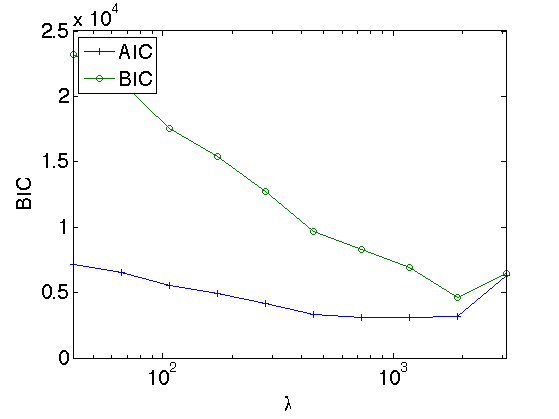
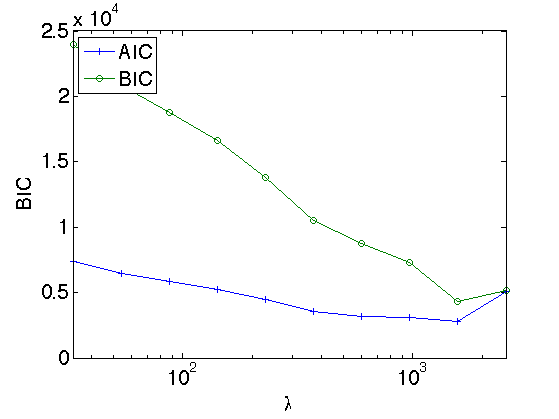
minor edits and re-publish demo_matrixreg

diff --git a/codebase/tensorreg_toolbox/html/demo_matrixreg.html b/codebase/tensorreg_toolbox/html/demo_matrixreg.html
@@ -6,7 +6,7 @@
    <!--
 This HTML was auto-generated from MATLAB code.
 To make changes, update the MATLAB code and republish this document.
-      --><title>demo_matrixreg</title><meta name="generator" content="MATLAB 7.12"><link rel="schema.DC" href="http://purl.org/dc/elements/1.1/"><meta name="DC.date" content="2013-07-22"><meta name="DC.source" content="demo_matrixreg.m"><style type="text/css">
+      --><title>demo_matrixreg</title><meta name="generator" content="MATLAB 7.12"><link rel="schema.DC" href="http://purl.org/dc/elements/1.1/"><meta name="DC.date" content="2013-07-23"><meta name="DC.source" content="demo_matrixreg.m"><style type="text/css">
 
 body {
   background-color: white;
@@ -69,7 +69,7 @@ RandStream.setGlobalStream(s);
 </pre><p>True coefficients for regular (non-array) covariates</p><pre class="codeinput">p0 = 5;
 b0 = ones(p0,1);
 </pre><p>2D true signal: 64-by-64 cross</p><pre class="codeinput">shape = imread(<span class="string">'cross.gif'</span>);
-shape = imresize(shape,[32,32]); <span class="comment">% 32-by-32</span>
+shape = array_resize(shape,[32,32]); <span class="comment">% 32-by-32</span>
 b = zeros(2*size(shape));
 b((size(b,1)/4):(size(b,1)/4)+size(shape,1)-1, <span class="keyword">...</span>
     (size(b,2)/4):(size(b,2)/4)+size(shape,2)-1) = shape;
@@ -114,7 +114,7 @@ tic;
     BIC(i) = stats.BIC;
 <span class="keyword">end</span>
 toc;
-</pre><pre class="codeoutput">Elapsed time is 1.434837 seconds.
+</pre><pre class="codeoutput">Elapsed time is 1.647468 seconds.
 </pre><p>Display true signal and snapshots along nuclear norm solution path</p><pre class="codeinput">figure; hold <span class="string">on</span>;
 set(gca,<span class="string">'FontSize'</span>,20);
 
@@ -169,7 +169,7 @@ tic;
     BIC_lasso(i) = .5*norm(y-Xall*beta)^2+log(n)*nnz(abs(beta)&gt;1e-8);
 <span class="keyword">end</span>
 toc;
-</pre><pre class="codeoutput">Elapsed time is 0.519900 seconds.
+</pre><pre class="codeoutput">Elapsed time is 0.451854 seconds.
 </pre><p>Display true signal and snapshots along lasso solution path</p><pre class="codeinput">figure; hold <span class="string">on</span>;
 set(gca,<span class="string">'FontSize'</span>,20);
 
@@ -203,7 +203,7 @@ xlim([min(lambdas_lasso),max(lambdas_lasso)]);
 s = RandStream(<span class="string">'mt19937ar'</span>,<span class="string">'Seed'</span>,2);
 RandStream.setGlobalStream(s);
 </pre><p>2D true signal: 64-by-64 cross</p><pre class="codeinput">shape = imread(<span class="string">'cross.gif'</span>);
-shape = imresize(shape,[32,32]); <span class="comment">% 32-by-32</span>
+shape = array_resize(shape,[32,32]); <span class="comment">% 32-by-32</span>
 b = zeros(2*size(shape));
 b((size(b,1)/4):(size(b,1)/4)+size(shape,1)-1, <span class="keyword">...</span>
     (size(b,2)/4):(size(b,2)/4)+size(shape,2)-1) = shape;
@@ -214,7 +214,7 @@ ans =
 
     64    64
 
-</pre><p>True coefficients for regulari (non-array) covariates</p><pre class="codeinput">p0 = 5;
+</pre><p>True coefficients for regular (non-array) covariates</p><pre class="codeinput">p0 = 5;
 b0 = ones(p0,1);
 </pre><p>Simulate covariates</p><pre class="codeinput">n = 750;    <span class="comment">% sample size</span>
 X = randn(n,p0);   <span class="comment">% n-by-p regular design matrix</span>
@@ -252,7 +252,7 @@ tic;
     BIC(i) = stats.BIC;
 <span class="keyword">end</span>
 toc
-</pre><pre class="codeoutput">Elapsed time is 3.827486 seconds.
+</pre><pre class="codeoutput">Elapsed time is 4.235523 seconds.
 </pre><p>Display true signal and snapshots along nuclear norm solution path</p><pre class="codeinput">figure; hold <span class="string">on</span>;
 set(gca,<span class="string">'FontSize'</span>,20);
 
@@ -312,7 +312,7 @@ tic;
         + log(n)*nnz(abs(beta)&gt;1e-8);
 <span class="keyword">end</span>
 toc;
-</pre><pre class="codeoutput">Elapsed time is 55.624880 seconds.
+</pre><pre class="codeoutput">Elapsed time is 67.808552 seconds.
 </pre><p>Display true sinal and snapshots along lasso solution path</p><pre class="codeinput">figure; hold <span class="string">on</span>;
 set(gca,<span class="string">'FontSize'</span>,20);
 
@@ -341,15 +341,13 @@ title(<span class="string">'lasso BIC'</span>);
 xlabel(<span class="string">'\lambda'</span>);
 ylabel(<span class="string">'BIC'</span>);
 xlim([min(lambdas_lasso),max(lambdas_lasso)]);
-</pre><pre class="codeoutput">Warning: Imaginary parts
-of complex X and/or Y
-arguments ignored 
+</pre><pre class="codeoutput">Warning: Imaginary parts of complex X and/or Y arguments ignored 
 </pre><img vspace="5" hspace="5" src="demo_matrixreg_08.png" alt=""> <h2>Regularized matrix logistic regression<a name="30"></a></h2><pre class="codeinput">clear;
 <span class="comment">% reset random seed</span>
 s = RandStream(<span class="string">'mt19937ar'</span>,<span class="string">'Seed'</span>,2);
 RandStream.setGlobalStream(s);
 </pre><p>2D true signal: 64-by-64 cross</p><pre class="codeinput">shape = imread(<span class="string">'cross.gif'</span>);
-shape = imresize(shape,[32,32]); <span class="comment">% 32-by-32</span>
+shape = array_resize(shape,[32,32]); <span class="comment">% 32-by-32</span>
 b = zeros(2*size(shape));
 b((size(b,1)/4):(size(b,1)/4)+size(shape,1)-1, <span class="keyword">...</span>
     (size(b,2)/4):(size(b,2)/4)+size(shape,2)-1) = shape;
@@ -369,13 +367,7 @@ display(size(M));
 </pre><pre class="codeoutput">
 ans =
 
-  Columns 1 through 2
-
-          64          64
-
-  Column 3
-
-        1000
+          64          64        1000
 
 </pre><p>Simulate binary responses from the systematic components</p><pre class="codeinput">mu = X*b0 + double(ttt(tensor(b), M, 1:2));
 y = binornd(1, 1./(1+exp(-mu)));
@@ -402,7 +394,7 @@ tic;
     BIC(i) = stats.BIC;
 <span class="keyword">end</span>
 toc
-</pre><pre class="codeoutput">Elapsed time is 2.786198 seconds.
+</pre><pre class="codeoutput">Elapsed time is 3.028371 seconds.
 </pre><p>Display true signal and and snapshots along nuclear norm solution path</p><pre class="codeinput">figure; hold <span class="string">on</span>;
 set(gca,<span class="string">'FontSize'</span>,20);
 
@@ -424,7 +416,7 @@ ploti = 1;
     axis <span class="string">equal</span>;
     axis <span class="string">tight</span>;
 <span class="keyword">end</span>
-</pre><img vspace="5" hspace="5" src="demo_matrixreg_09.png" alt=""> <p>Display AIC/BIC trace plot</p><pre class="codeinput">figure;
+</pre><p>Display AIC/BIC trace plot</p><pre class="codeinput">figure;
 set(gca,<span class="string">'FontSize'</span>,20);
 semilogx(lambdas, AIC, <span class="string">'-+'</span>, lambdas, BIC, <span class="string">'-o'</span>);
 xlabel(<span class="string">'\lambda'</span>);
@@ -432,7 +424,7 @@ ylabel(<span class="string">'BIC'</span>);
 xlim([min(lambdas) max(lambdas)]);
 title(<span class="string">'Nuclear norm AIC/BIC'</span>);
 legend(<span class="string">'AIC'</span>, <span class="string">'BIC'</span>, <span class="string">'Location'</span>, <span class="string">'northwest'</span>);
-</pre><img vspace="5" hspace="5" src="demo_matrixreg_10.png" alt=""> <h2>Compare to lasso penalized logistic regression<a name="39"></a></h2><p>Transform matrix variates to vector form</p><pre class="codeinput">TM = tenmat(tensor(M),3,[1 2]);
+</pre><h2>Compare to lasso penalized logistic regression<a name="39"></a></h2><p>Transform matrix variates to vector form</p><pre class="codeinput">TM = tenmat(tensor(M),3,[1 2]);
 Xall = [double(TM) X];
 </pre><p>Determine max lambda to start</p><pre class="codeinput">lambdastart = 0;            <span class="comment">% find the maximum tuning parameter to start</span>
 <span class="keyword">for</span> j=1:numel(b)
@@ -463,7 +455,7 @@ tic;
         + log(n)*nnz(abs(beta)&gt;1e-8);
 <span class="keyword">end</span>
 toc;
-</pre><pre class="codeoutput">Elapsed time is 109.558066 seconds.
+</pre><pre class="codeoutput">Elapsed time is 111.108797 seconds.
 </pre><p>Display true signal and snapshots along lasso solution path</p><pre class="codeinput">figure; hold <span class="string">on</span>;
 set(gca,<span class="string">'FontSize'</span>,20);
 
@@ -485,14 +477,14 @@ ploti = 1;
     axis <span class="string">equal</span>;
     axis <span class="string">tight</span>;
 <span class="keyword">end</span>
-</pre><img vspace="5" hspace="5" src="demo_matrixreg_11.png" alt=""> <p>Lasso BIC path</p><pre class="codeinput">figure;
+</pre><img vspace="5" hspace="5" src="demo_matrixreg_09.png" alt=""> <p>Lasso BIC path</p><pre class="codeinput">figure;
 set(gca,<span class="string">'FontSize'</span>,20);
 semilogx(lambdas_lasso,BIC_lasso,<span class="string">'-o'</span>);
 title(<span class="string">'lasso BIC'</span>);
 xlabel(<span class="string">'\lambda'</span>);
 ylabel(<span class="string">'BIC'</span>);
 xlim([min(lambdas_lasso),max(lambdas_lasso)]);
-</pre><img vspace="5" hspace="5" src="demo_matrixreg_12.png" alt=""> <p class="footer"><br>
+</pre><img vspace="5" hspace="5" src="demo_matrixreg_10.png" alt=""> <p class="footer"><br>
       Published with MATLAB&reg; 7.12<br></p></div><!--
 ##### SOURCE BEGIN #####
 %% Regularized matrix linear regression
@@ -510,7 +502,7 @@ b0 = ones(p0,1);
 %%
 % 2D true signal: 64-by-64 cross
 shape = imread('cross.gif'); 
-shape = imresize(shape,[32,32]); % 32-by-32
+shape = array_resize(shape,[32,32]); % 32-by-32
 b = zeros(2*size(shape));
 b((size(b,1)/4):(size(b,1)/4)+size(shape,1)-1, ...
     (size(b,2)/4):(size(b,2)/4)+size(shape,2)-1) = shape;
@@ -675,7 +667,7 @@ RandStream.setGlobalStream(s);
 %%
 % 2D true signal: 64-by-64 cross
 shape = imread('cross.gif'); 
-shape = imresize(shape,[32,32]); % 32-by-32
+shape = array_resize(shape,[32,32]); % 32-by-32
 b = zeros(2*size(shape));
 b((size(b,1)/4):(size(b,1)/4)+size(shape,1)-1, ...
     (size(b,2)/4):(size(b,2)/4)+size(shape,2)-1) = shape;
@@ -683,7 +675,7 @@ b((size(b,1)/4):(size(b,1)/4)+size(shape,1)-1, ...
 display(size(b));
 
 %%
-% True coefficients for regulari (non-array) covariates
+% True coefficients for regular (non-array) covariates
 p0 = 5;
 b0 = ones(p0,1);
 
@@ -847,7 +839,7 @@ RandStream.setGlobalStream(s);
 %%
 % 2D true signal: 64-by-64 cross
 shape = imread('cross.gif'); 
-shape = imresize(shape,[32,32]); % 32-by-32
+shape = array_resize(shape,[32,32]); % 32-by-32
 b = zeros(2*size(shape));
 b((size(b,1)/4):(size(b,1)/4)+size(shape,1)-1, ...
     (size(b,2)/4):(size(b,2)/4)+size(shape,2)-1) = shape;

diff --git a/codebase/tensorreg_toolbox/demo_matrixreg.m b/codebase/tensorreg_toolbox/demo_matrixreg.m
@@ -186,7 +186,7 @@ b((size(b,1)/4):(size(b,1)/4)+size(shape,1)-1, ...
 display(size(b));
 
 %%
-% True coefficients for regulari (non-array) covariates
+% True coefficients for regular (non-array) covariates
 p0 = 5;
 b0 = ones(p0,1);
 
